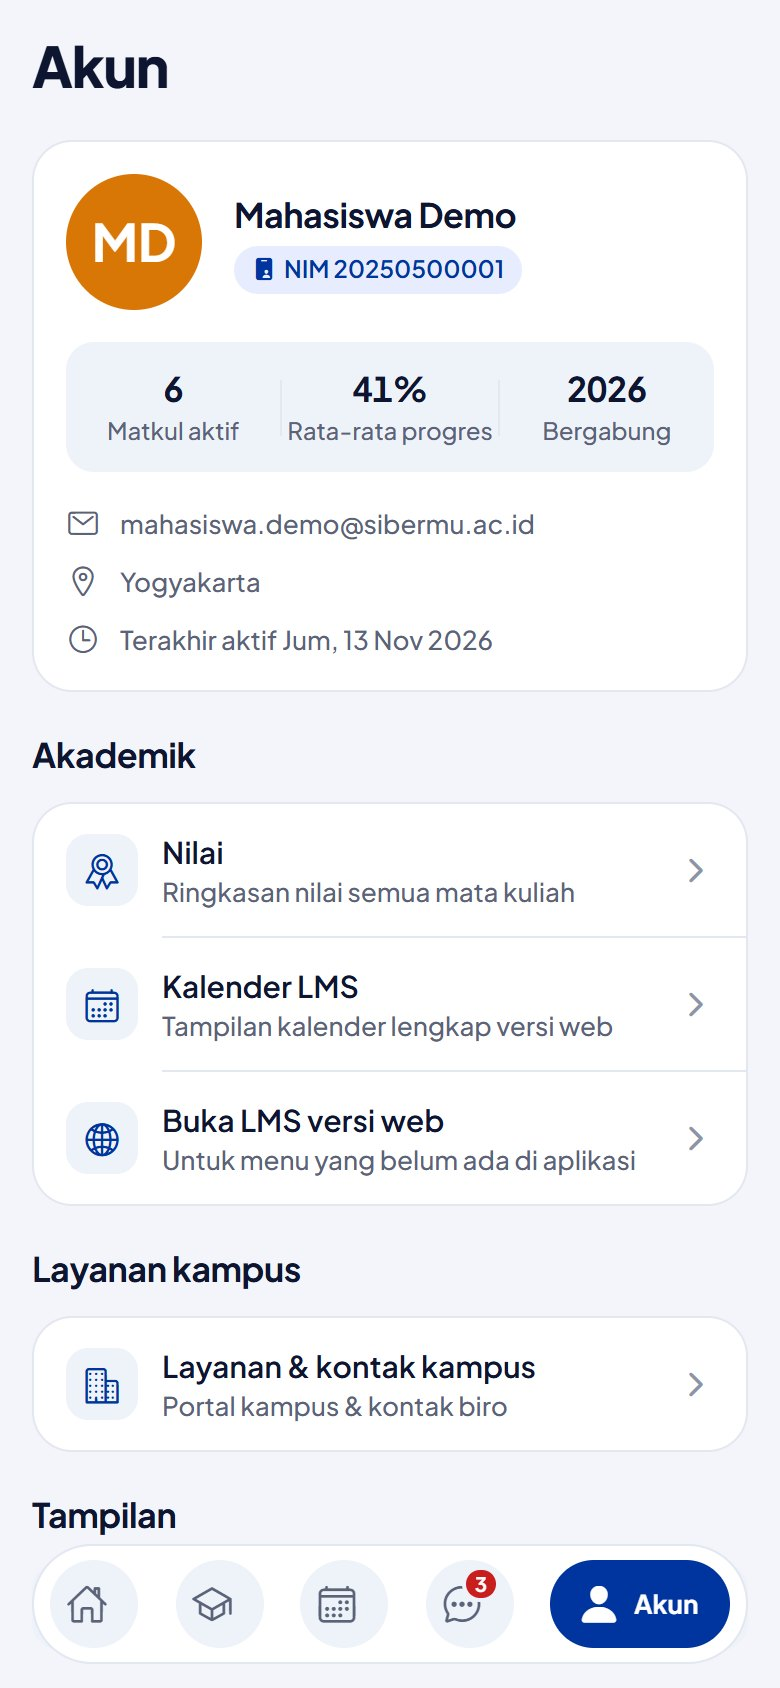
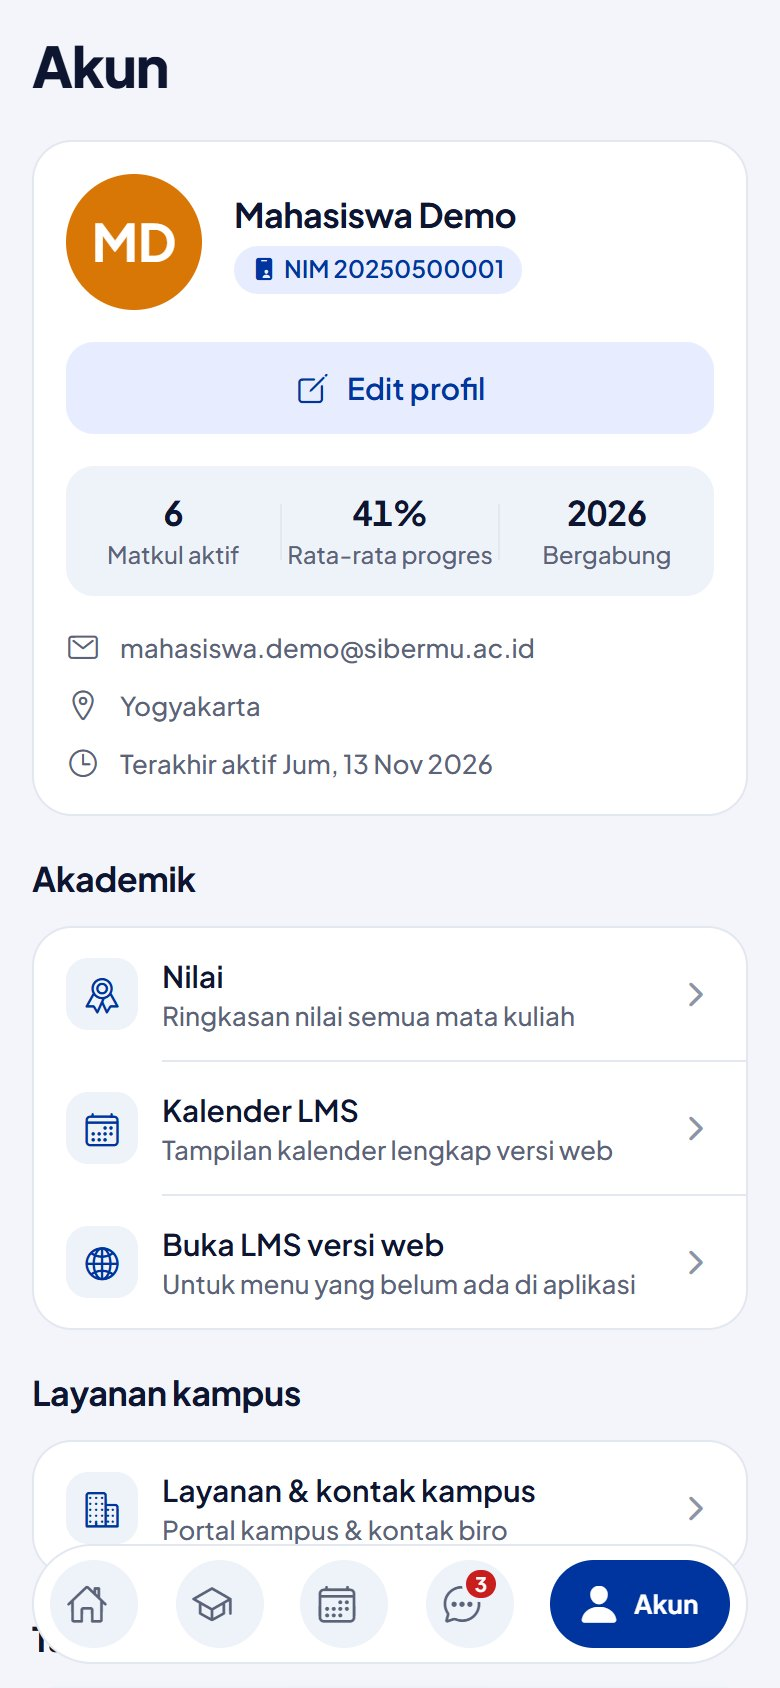
Fitur baru (presensi, edit profil, update) dan hero dari mode demo

diff --git a/index.html b/index.html
@@ -10,7 +10,7 @@
   <link rel="preconnect" href="https://fonts.googleapis.com">
   <link rel="preconnect" href="https://fonts.gstatic.com" crossorigin>
   <link href="https://fonts.googleapis.com/css2?family=Plus+Jakarta+Sans:wght@400;500;600;700;800&display=swap" rel="stylesheet">
-  <link rel="stylesheet" href="style.css?v=9">
+  <link rel="stylesheet" href="style.css?v=10">
 </head>
 <body>
 
@@ -39,8 +39,8 @@
         <p class="meta small">Dibuat oleh mahasiswa, bukan oleh pihak kampus. Login lewat akun Google kampus dan data tetap di LMS. Setelah download, ikuti <a href="#pasang">cara pasang</a> di bawah.</p>
       </div>
       <div class="hero-shots" aria-hidden="false">
-        <img class="shot shot-back" src="img/hero-gelap.jpg" alt="Beranda SiberMu dalam mode gelap" width="640" height="1210">
-        <img class="shot shot-front" src="img/hero-home.jpg" alt="Beranda SiberMu: checklist minggu ini dan lanjutkan belajar" width="640" height="1210">
+        <img class="shot shot-back" src="img/hero-gelap.jpg?v=2" alt="Beranda SiberMu dalam mode gelap" width="780" height="1474">
+        <img class="shot shot-front" src="img/hero-home.jpg?v=2" alt="Beranda SiberMu: checklist minggu ini dan lanjutkan belajar" width="780" height="1474">
       </div>
     </div>
   </section>
@@ -91,6 +91,16 @@
           <p>Lanjutkan dari mata kuliah terakhir dengan lingkaran progres, lengkap dengan tenggat terdekat dan info akademik.</p>
         </article>
         <article class="feat">
+          <img src="img/update-kartu.jpg" alt="Kartu versi baru tersedia di Beranda" loading="lazy" width="780" height="1688">
+          <h3>Pemberitahuan update</h3>
+          <p>Saat ada versi baru, kartu muncul di Beranda lengkap dengan catatan rilis dan ukuran unduhan.</p>
+        </article>
+        <article class="feat">
+          <img src="img/update-pasang.jpg" alt="Pembaruan sudah diunduh dan siap dipasang" loading="lazy" width="780" height="1688">
+          <h3>Update langsung dari app</h3>
+          <p>Tekan &ldquo;Update sekarang&rdquo;, unduh, lalu pasang tanpa mencari file APK lagi.</p>
+        </article>
+        <article class="feat">
           <img src="img/kuliah.jpg" alt="Daftar mata kuliah dengan progres" loading="lazy" width="780" height="1688">
           <h3>Daftar mata kuliah</h3>
           <p>Cari mata kuliah, filter berjalan atau selesai, dan lihat progres tiap matkul.</p>
@@ -99,6 +109,16 @@
           <img src="img/pertemuan.jpg" alt="Halaman pertemuan dengan pengantar dari dosen" loading="lazy" width="780" height="1688">
           <h3>Halaman pertemuan</h3>
           <p>Pengantar dosen di atas, lalu materi, video, penugasan, forum, dan presensi dalam satu daftar.</p>
+        </article>
+        <article class="feat">
+          <img src="img/presensi.jpg" alt="Halaman presensi dengan pilihan Hadir, Terlambat, dan Tidak Hadir" loading="lazy" width="780" height="1688">
+          <h3>Presensi di app</h3>
+          <p>Isi presensi langsung di aplikasi dengan tombol sesuai pilihan di LMS, per sesi.</p>
+        </article>
+        <article class="feat">
+          <img src="img/presensi-tercatat.jpg" alt="Presensi tercatat dan riwayat presensi" loading="lazy" width="780" height="1688">
+          <h3>Presensi tercatat</h3>
+          <p>Aplikasi mengecek ulang ke LMS sebelum menyatakan tercatat, lalu menampilkan riwayat per hari dan per bulan.</p>
         </article>
         <article class="feat">
           <img src="img/materi.jpg" alt="Halaman materi PDF dengan tombol Buka" loading="lazy" width="780" height="1688">
@@ -141,9 +161,14 @@
           <p>SIAKAD, Asesmen, TTE, Helpdesk, dan pintasan WhatsApp ke biro kampus dalam satu tempat.</p>
         </article>
         <article class="feat">
-          <img src="img/akun.jpg" alt="Halaman akun dengan profil dan menu akademik" loading="lazy" width="780" height="1688">
+          <img src="img/akun.jpg" alt="Halaman akun dengan profil dan tombol Edit profil" loading="lazy" width="780" height="1688">
           <h3>Akun</h3>
-          <p>Profil, pintasan nilai dan kalender, layanan kampus, serta tema tampilan.</p>
+          <p>Profil, tombol Edit profil, pintasan nilai dan kalender, layanan kampus, serta tema tampilan.</p>
+        </article>
+        <article class="feat">
+          <img src="img/profil-edit.jpg" alt="Halaman edit profil dengan foto, tentang saya, dan minat" loading="lazy" width="780" height="1688">
+          <h3>Edit profil</h3>
+          <p>Ganti foto (galeri atau kamera), tentang saya, minat, kontak, dan kota. Nama dan email tetap mengikuti akun Google kampus.</p>
         </article>
         <article class="feat">
           <img src="img/gelap-home.jpg" alt="Beranda dalam mode gelap" loading="lazy" width="780" height="1688">
